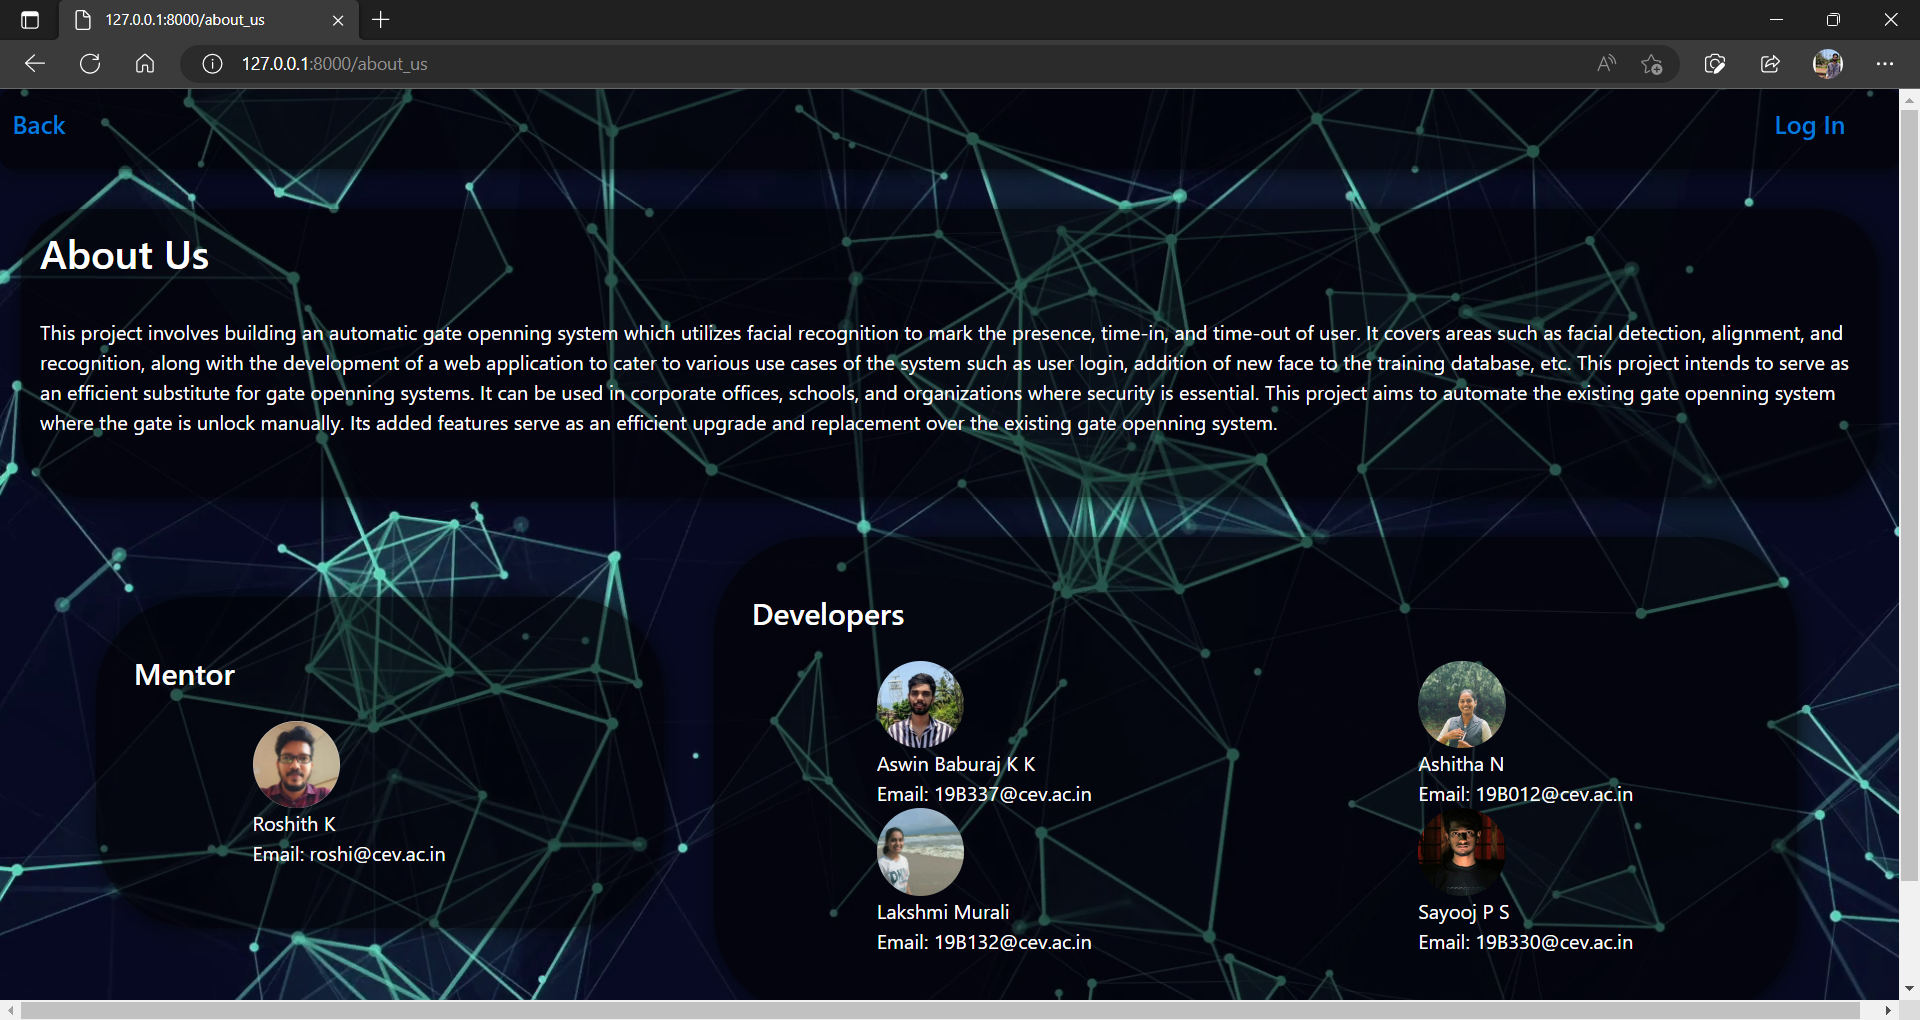
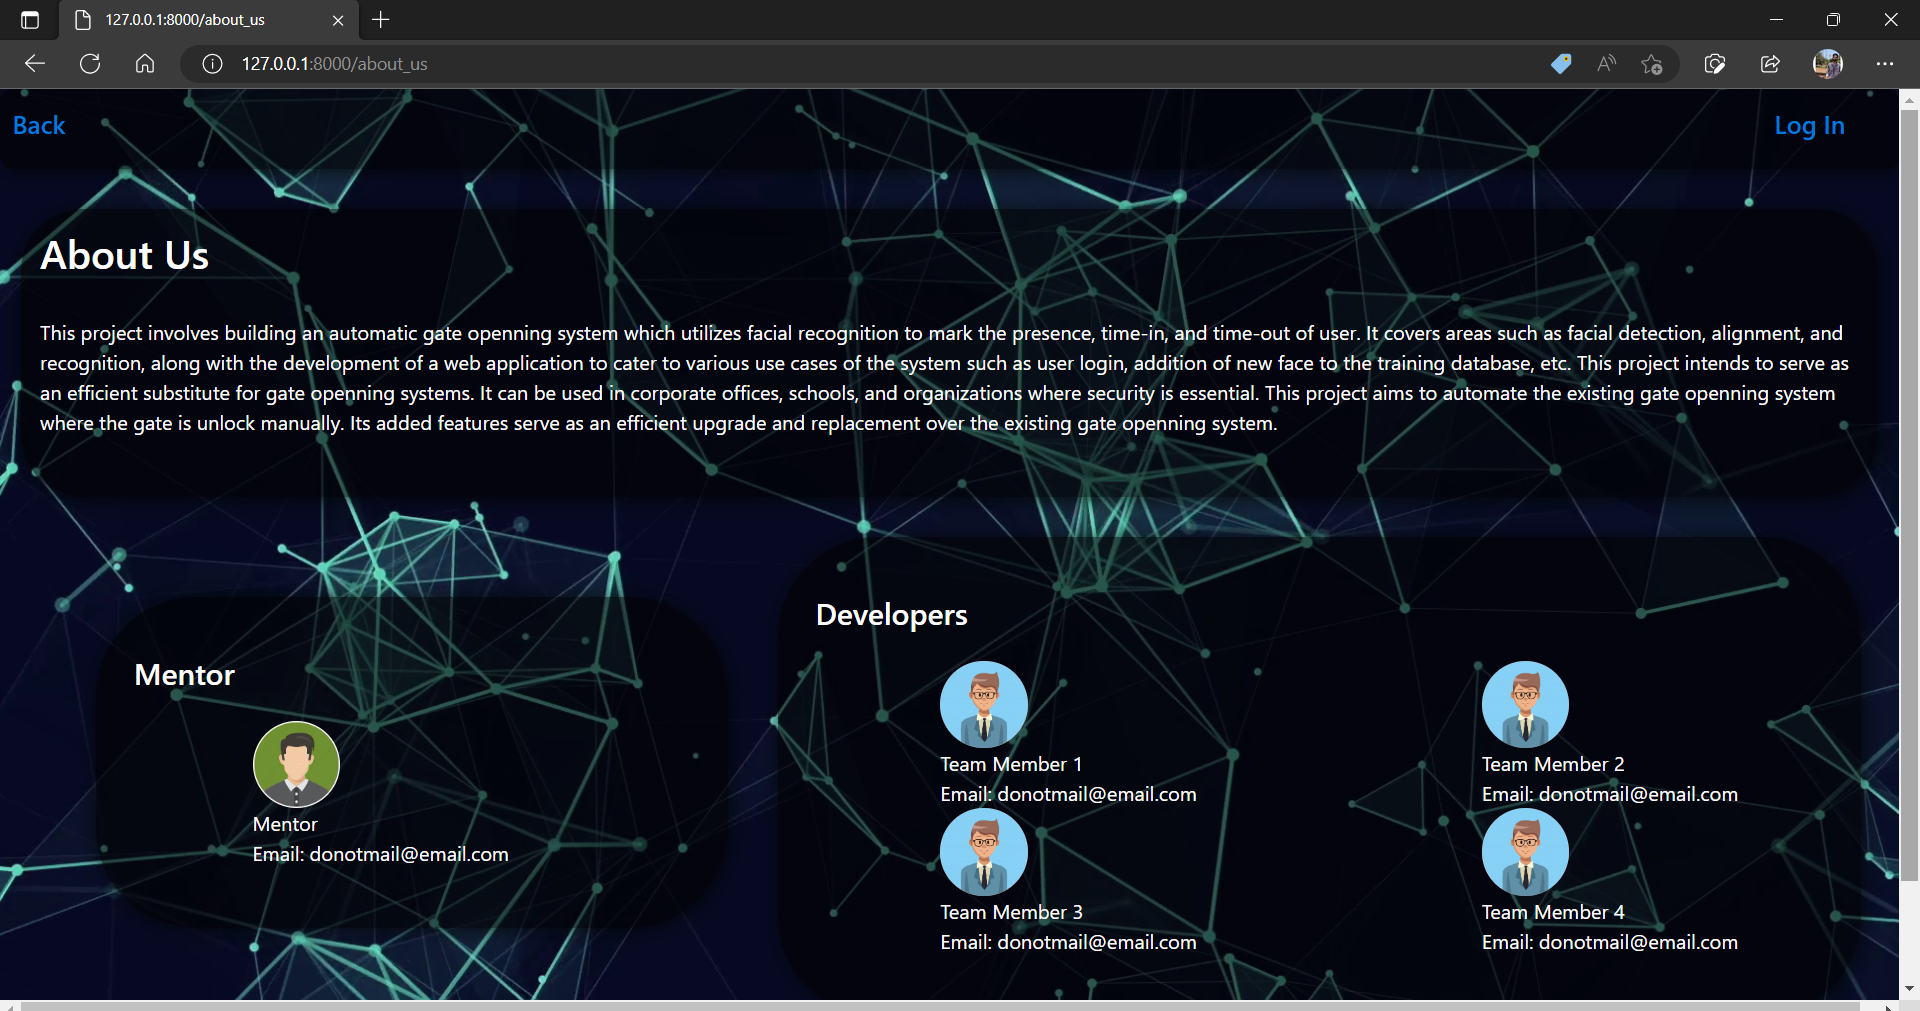
Initial commit

diff --git a/recognition/templates/recognition/contact.html b/recognition/templates/recognition/contact.html
@@ -62,7 +62,7 @@ box-shadow:         2px 2px 15px 0px rgba(0, 3, 0, 0.7);">
             <h4 class="title" style="padding-right:0px;margin-bottom:1em;">Mentor</h4>
         </div>
         <div class="col-md-19" style="padding-left: 110px">
-                <img src="{% static 'recognition/img/mentor_dp.jpg' %}" class="img-responsive" style="width:70px;height:70px ;" /></a>
+                <img src="{% static 'recognition/img/mentor_pic.jpg' %}" class="img-responsive" style="width:70px;height:70px ;" /></a>
                 <div class="col md-3" style="padding-left: 0px">
                 <h8 class="text">Mentor</h8>
                 </div>
@@ -130,7 +130,7 @@ box-shadow:         2px 2px 15px 0px rgba(0, 3, 0, 0.7);">
 
 
             <div class="col-md-6" style="padding-left: 130px">
-                <img src="{% static 'recognition/img/member_dp.jpg' %}" class="img-responsive" style="width:70px;height:70px ;" /></a>
+                <img src="{% static 'recognition/img/member_pic.jpg' %}" class="img-responsive" style="width:70px;height:70px ;" /></a>
                 <div class="col md-3" style="padding-left: 0px">
                 <h8 class="text">Team Member 1</h8>
             </div>
@@ -140,7 +140,7 @@ box-shadow:         2px 2px 15px 0px rgba(0, 3, 0, 0.7);">
             </div>
 
             <div class="col-md-6" style="padding-left: 130px">
-                <img src="{% static 'recognition/img/member_dp.jpg' %}" class="img-responsive" style="width:70px;height:70px ;" /></a>
+                <img src="{% static 'recognition/img/member_pic.jpg' %}" class="img-responsive" style="width:70px;height:70px ;" /></a>
                 <div class="col md-3" style="padding-left: 0px">
                 <h8 class="text">Team Member 2</h8>
             </div>
@@ -150,7 +150,7 @@ box-shadow:         2px 2px 15px 0px rgba(0, 3, 0, 0.7);">
             </div>
 
             <div class="col-md-6" style="padding-left: 130px">
-                <img src="{% static 'recognition/img/member_dp.jpg' %}" class="img-responsive" style="width:70px;height:70px" /></a>
+                <img src="{% static 'recognition/img/member_pic.jpg' %}" class="img-responsive" style="width:70px;height:70px" /></a>
                 <div class="col md-3" style="padding-left: 0px">
                 <h8 class="text">Team Member 3</h8>
             </div>
@@ -160,7 +160,7 @@ box-shadow:         2px 2px 15px 0px rgba(0, 3, 0, 0.7);">
             </div>
 
             <div class="col-md-6" style="padding-left: 130px">
-                <img src="{% static 'recognition/img/member_dp.jpg' %}" class="img-responsive" style="width:70px;height:70px ;" /></a>
+                <img src="{% static 'recognition/img/member_pic.jpg' %}" class="img-responsive" style="width:70px;height:70px ;" /></a>
                 <div class="col md-3" style="padding-left: 0px">
                 <h8 class="text">Team Member 4</h8>
             </div>
